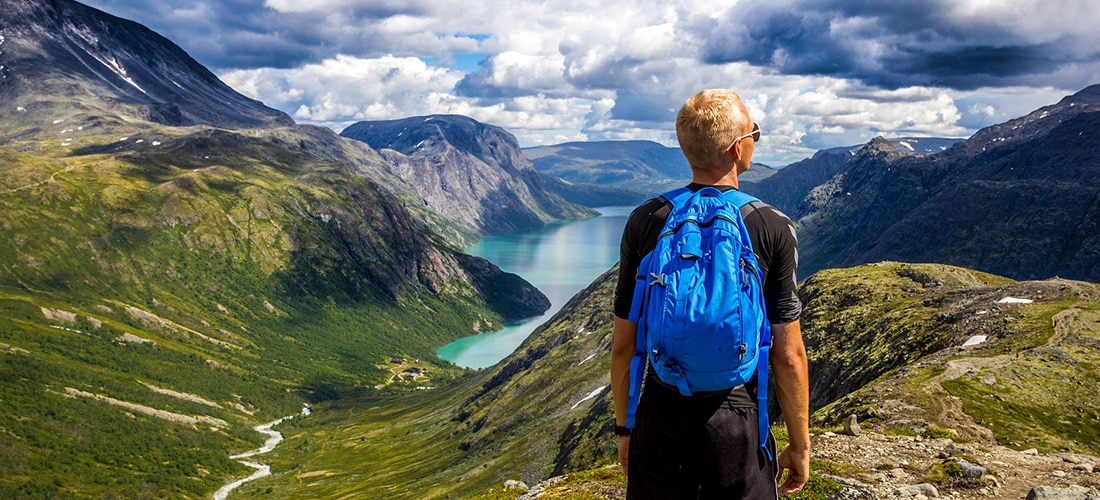
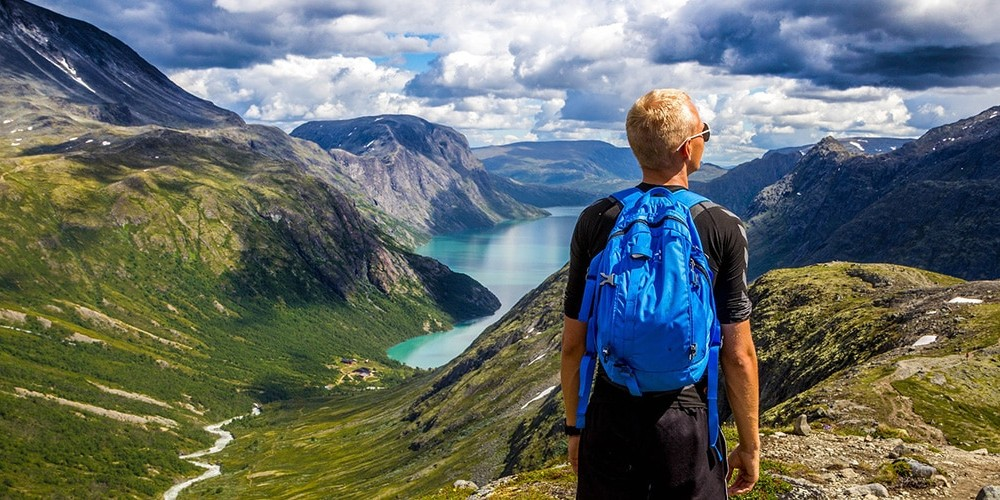
soluciono carrusel

diff --git a/css/style.css b/css/style.css
@@ -697,7 +697,7 @@ h2 {
     height: 120px;
   }
   .img-banner {
-    height: 300px;
+    height: 100%;
   }
  .descuentos h2 {
     font-size: 1.75rem;
@@ -878,7 +878,7 @@ h2 {
   }
 
   .img-banner {
-    height: 400px;
+    height: 100%;
   }
 
   .boton-comunidad {
@@ -1083,7 +1083,7 @@ h2 {
   }
 
   .img-banner {
-    height: 500px;
+    height: 100%;
   }
 
   .reseñas .img-fija {

diff --git a/index.html b/index.html
@@ -512,7 +512,7 @@
             </div>
             <div class="carousel-item">
               <img
-                src="./assets/img/banner2.jpg"
+                src="./assets/img/banner2..jpg"
                 class="d-block img-fluid img-banner"
                 alt="..."
               />
